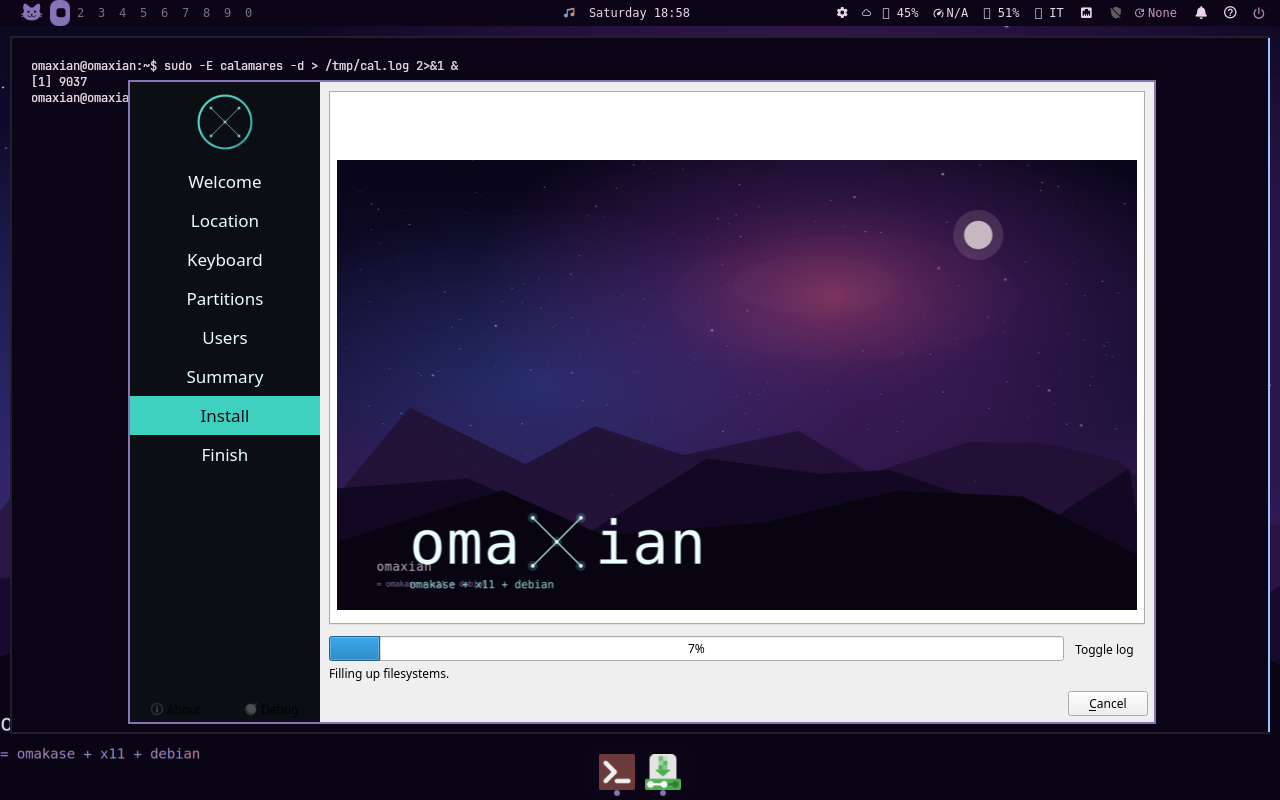
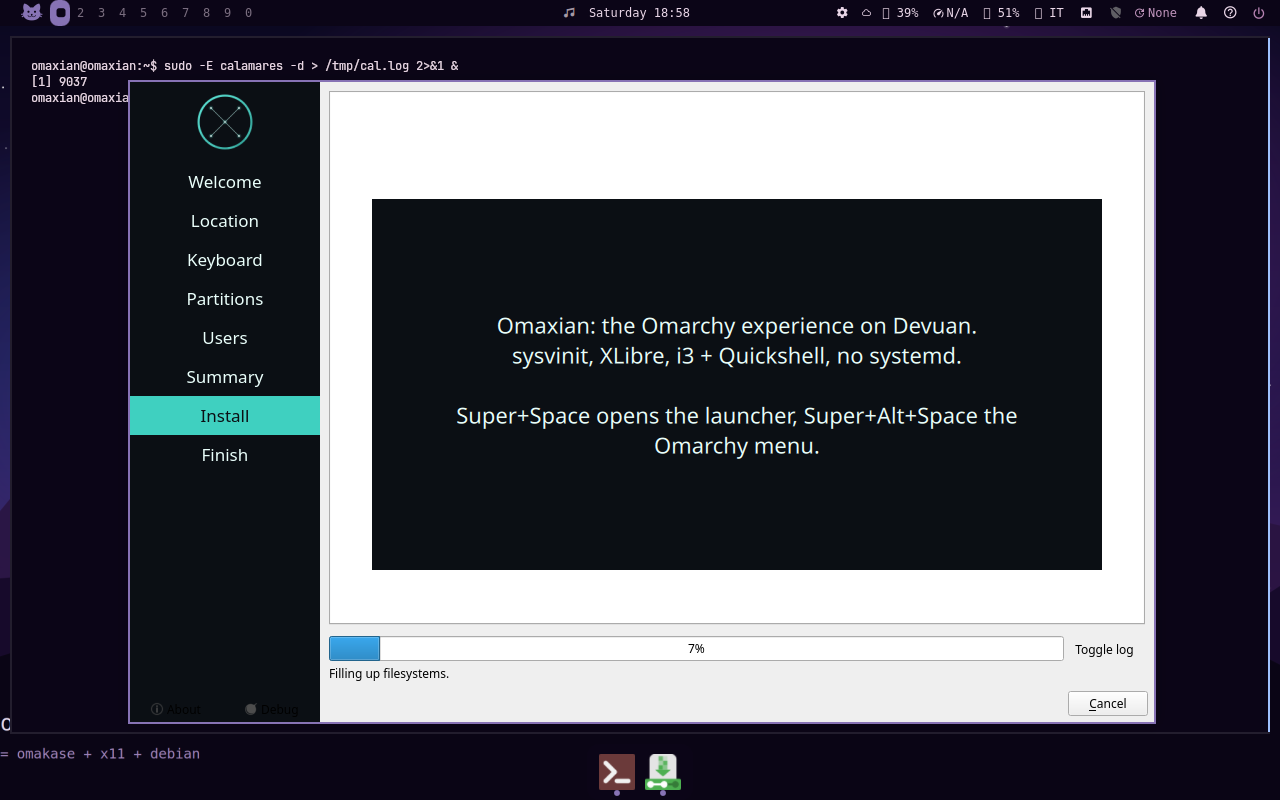
docs: ISO size analysis and shrink proposals

Changed region(s): [[0.25, 0.1875, 0.9062, 0.7812]]

diff --git a/docs/iso-size.md b/docs/iso-size.md
@@ -1,0 +1,59 @@
+# Why the base ISO is 3.5 GB, and how to shrink it
+
+Measured on build/rootfs-base (2026-10-24): 2256 packages, about 8.5 GiB installed
+(dpkg Installed-Size), 9.3 GiB on disk. The squashfs is about 3.4 GiB and the ISO 3.36 GiB
+(3 521 845 248 bytes).
+
+## Largest packages (installed size)
+| MiB | package | where it comes from |
+|---:|---|---|
+| 477 | brave-browser | 40-user.list / extrepo |
+| 471 | omaxian-session | vendored Omarchy + Omaxian (home-template 299M, src 178M) |
+| 462 | librewolf | extrepo |
+| 326 | fonts-noto-extra | Recommends chain (fonts-noto) |
+| 316 | chromium (+65 chromium-common) | 40-user.list |
+| 268 | thunderbird | 40-user.list |
+| 210 | fonts-noto-cjk-extra | Recommends chain |
+| 189 | firmware-iwlwifi | 10-base hardware firmware |
+| 183 | papirus-icon-theme | desktop |
+| 153 | linux-modules-7.2.9 | kernel |
+| 129 | mesa-vulkan-drivers | desktop |
+| 126 / 84 / 61 / 54 | buildah / podman / docker-compose / containernetworking-plugins | 40-user.list |
+| 124 | libllvm19 | mesa |
+| 113 | telegram-desktop | 40-user.list |
+| 109 / 88+67 / 73 | inkscape / krita+krita-data / gimp-data | 40-user.list |
+| 98 + 97 | libwebkit2gtk-4.1 + libwebkitgtk-6.0 | two webkit ABIs |
+| 97 | firmware-amd-graphics | firmware |
+| 89 + 70 + 42 | fonts-noto-cjk / -ui-extra / -core | fonts |
+| 67 | qemu-system-x86 | 40-user.list |
+| 67 | gcc-14 | build-essential / rustup |
+
+Directory view: usr/share/fonts 881M, usr/share/locale 608M, usr/share/omaxian 477M,
+/opt/brave.com 478M, usr/share/librewolf 463M, usr/share/icons 343M, usr/lib/firmware 344M,
+/etc/skel 299M (a second copy of the Omarchy home template plus 164M of fonts), usr/share/doc 198M.
+
+## Proposals (rough savings on the ISO, after xz)
+1. **Split base and full properly.** Move chromium, thunderbird, gimp, inkscape, krita,
+   telegram-desktop, the podman/buildah/docker-compose stack and qemu/libvirt to the full ISO.
+   On base, install them at first boot or offer them in a "Install extras" menu. That's roughly
+   2.0 GiB installed, about 700 to 800 MiB off the ISO. This is the biggest win.
+2. **Ship only one extra browser on base.** Brave or LibreWolf, with the other at first boot:
+   about 150 to 170 MiB.
+3. **Fonts.** Use `--no-install-recommends` for fonts-noto, and drop fonts-noto-extra,
+   fonts-noto-cjk-extra and fonts-noto-ui-extra. Keep fonts-noto-core and fonts-noto-cjk:
+   about 600 MiB installed, 250 to 300 MiB off the ISO.
+4. **Deduplicate the skel.** /etc/skel/.local duplicates usr/share/omaxian/home-template
+   (omarchy 134M and fonts 164M). Make skel symlink or copy at first login
+   (omaxian-firstboot already runs per user), and put the fonts in /usr/share/fonts/omaxian:
+   about 300 MiB installed, around 120 MiB ISO.
+5. **Strip docs, man pages and locales in the live image.** Use dpkg path-exclude in
+   /etc/dpkg/dpkg.cfg.d/ for usr/share/doc (keep copyright), man and locale except en/it:
+   about 700 MiB installed, around 200 MiB ISO.
+6. **Drop omaxian-session's src/ copy** (178M of vendored Omarchy source, which is only
+   needed at build time): around 60 MiB ISO.
+7. **Firmware.** Keep it, since users expect wifi to work. Alternatively, ship
+   firmware-iwlwifi only on full: about 60 MiB.
+8. **Compression.** Use `mksquashfs -comp xz -Xbcj x86 -b 1M` (see build-iso.sh), or zstd
+   level 19 for faster boot at a slightly larger size.
+
+Points 1, 3, 4 and 5 together should bring the base ISO to about **1.8 to 2.0 GiB**.
